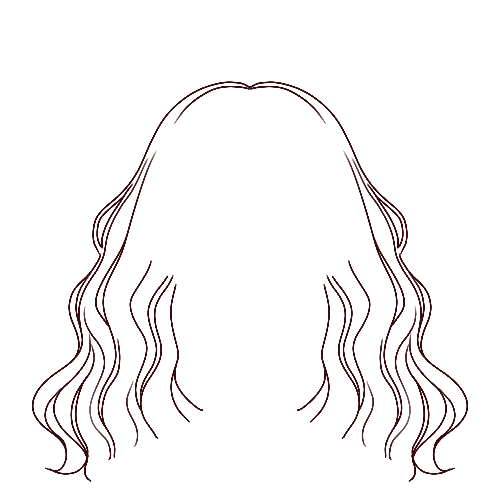
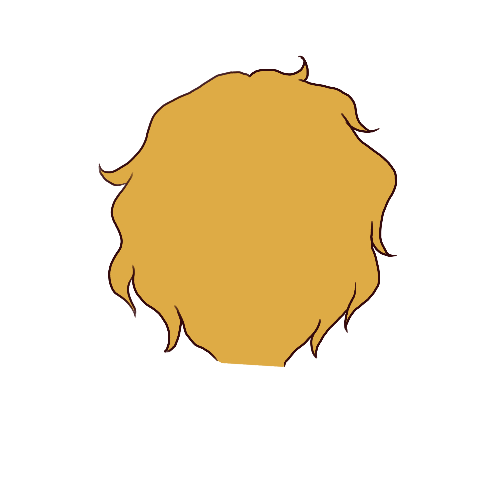
ITS WORKING

Changed region(s): [[0.06, 0.12, 0.96, 0.96], [0.21, 0.87, 0.24, 0.93]]

diff --git a/main.js b/main.js
@@ -4,49 +4,43 @@ window.onload = function ()
 		{
 			//BACKHAIR
 			var backhair = new Image();
-			var backhairnum = Math.floor(Math.random()*4)+1;
+			var backhairnum = Math.floor(Math.random()*25)+1;
 			var backhairname = "items/backhair/backhair" + backhairnum + ".png";
 			backhair.src = backhairname;
 
 			//BODY
 			var body = new Image();
-			var bodynum = Math.floor(Math.random()*2)+1;
+			var bodynum = Math.floor(Math.random()*25)+1;
 			var bodyname = "items/body/body" + bodynum + ".png";
 			body.src = bodyname;
 
-			//FACE
-			var face = new Image();
-			var facenum = Math.floor(Math.random()*5)+1;
-			var facename = "items/face/face" + facenum + ".png";
-			face.src = facename;
-
 			//EYES
 			var eyes = new Image();
-			var eyesnum = Math.floor(Math.random()*5)+1;
+			var eyesnum = Math.floor(Math.random()*25)+1;
 			var eyesname = "items/eyes/eyes" + eyesnum + ".png";
 			eyes.src = eyesname;
 
 			//EYEBROWS
 			var eyebrows = new Image();
-			var eyebrowsnum = Math.floor(Math.random()*5)+1;
+			var eyebrowsnum = Math.floor(Math.random()*20)+1;
 			var eyebrowsname = "items/eyebrows/eyebrows" + eyebrowsnum + ".png";
 			eyebrows.src = eyebrowsname;
 
 			//MOUTH
 			var mouth = new Image();
-			var mouthnum = Math.floor(Math.random()*4)+1;
+			var mouthnum = Math.floor(Math.random()*25)+1;
 			var mouthname = "items/mouth/mouth" + mouthnum + ".png";
 			mouth.src = mouthname;
 
 			//NOSE
 			var nose = new Image();
-			var nosenum = Math.floor(Math.random()*5)+1;
+			var nosenum = Math.floor(Math.random()*4)+1;
 			var nosename = "items/nose/nose" + nosenum + ".png";
 			nose.src = nosename;
 
 			//FRONTHAIR
 			var fronthair = new Image();
-			var fronthairnum = Math.floor(Math.random()*4)+1;
+			var fronthairnum = Math.floor(Math.random()*25)+1;
 			var fronthairname = "items/fronthair/fronthair" + fronthairnum + ".png";
 			fronthair.src = fronthairname;
 
@@ -58,12 +52,6 @@ window.onload = function ()
 
 			//BODY LOAD
 			body.onload = function()
-			{
-				buildchara();
-			}
-
-			//FACE LOAD
-			face.onload = function()
 			{
 				buildchara();
 			}
@@ -107,8 +95,6 @@ window.onload = function ()
 				ctx.drawImage(backhair,((500-backhair.width)/2),50);
 				//DRAW BODY
 				ctx.drawImage(body,((500-body.width)/1),50);
-				//DRAW FACE
-				ctx.drawImage(head,((500-face.width)/2),50);
 				//DRAW EYES
 				ctx.drawImage(eyes,((500-eyes.width)/2),50);
 				//DRAW EYEBROWS

diff --git a/index.html b/index.html
@@ -5,6 +5,7 @@
 	<meta name="viewport" content="width=device-width, initial-scale=1">
 	<title>Avatar Customizer</title>
 	<link rel="stylesheet" href="style.css">
+	<link rel="icon" href="favicon.ico">
 	<script type="text/javascript" src="main.js"></script>
 </head>
 <body>
